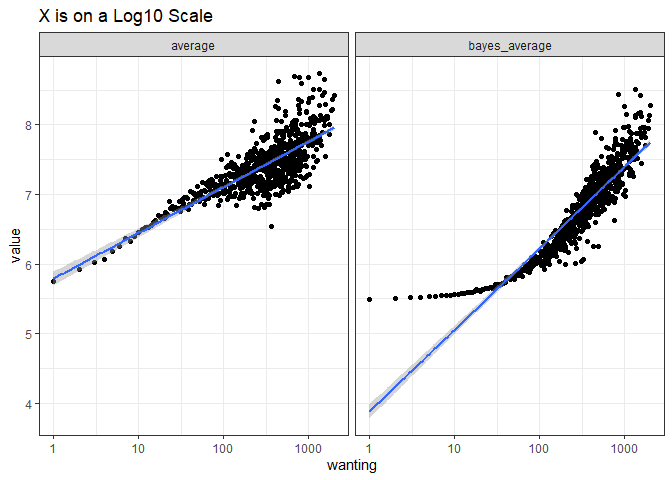
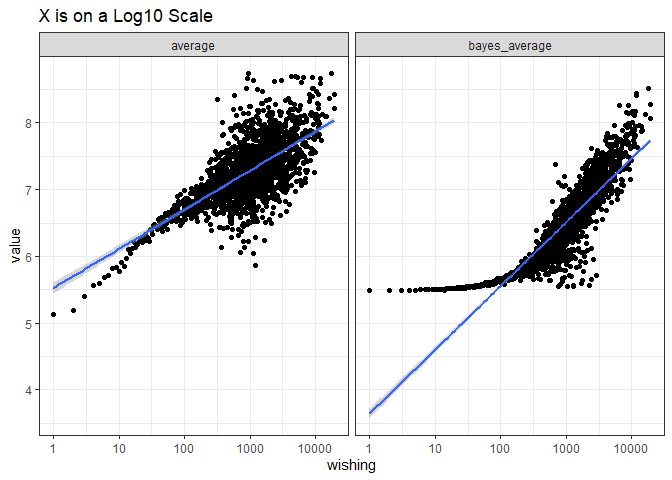
Quick update

diff --git a/BoardGames.md b/BoardGames.md
@@ -277,20 +277,20 @@ gplot2 <- function(x) {
     ggplot(aes({{x}}, value)) + geom_point() + facet_wrap(~key)
 }
 
-gplot2(wanting) + scale_x_log10() + geom_smooth(method = "lm") + labs(title = "X is on a Log10 Scale")
+gplot2(wishing) + scale_x_log10() + geom_smooth(method = "lm") + labs(title = "X is on a Log10 Scale")
 ```
 
-    ## `summarise()` has grouped output by 'wanting'. You can override using the `.groups` argument.
+    ## `summarise()` has grouped output by 'wishing'. You can override using the `.groups` argument.
 
     ## `geom_smooth()` using formula 'y ~ x'
 
 ![](BoardGames_files/figure-gfm/unnamed-chunk-10-1.png)<!-- -->
 
 ``` r
-gplot2(wanting) + scale_x_sqrt() + geom_smooth(method = "lm") + labs(title = "X is on a Sqrt Scale")
+gplot2(wishing) + scale_x_sqrt() + geom_smooth(method = "lm") + labs(title = "X is on a Sqrt Scale")
 ```
 
-    ## `summarise()` has grouped output by 'wanting'. You can override using the `.groups` argument.
+    ## `summarise()` has grouped output by 'wishing'. You can override using the `.groups` argument.
     ## `geom_smooth()` using formula 'y ~ x'
 
 ![](BoardGames_files/figure-gfm/unnamed-chunk-10-2.png)<!-- -->
@@ -298,28 +298,30 @@ gplot2(wanting) + scale_x_sqrt() + geom_smooth(method = "lm") + labs(title = "X 
 #### Quick lm models
 
 ``` r
-lm(bayes_average ~ sqrt(wanting), games %>% filter(wanting >0)) %>% summary()
+lm(bayes_average ~ sqrt(wishing) * sqrt(wanting), games %>% filter(wishing >0)) %>% summary()
 ```
 
     ## 
     ## Call:
-    ## lm(formula = bayes_average ~ sqrt(wanting), data = games %>% 
-    ##     filter(wanting > 0))
+    ## lm(formula = bayes_average ~ sqrt(wishing) * sqrt(wanting), data = games %>% 
+    ##     filter(wishing > 0))
     ## 
     ## Residuals:
     ##     Min      1Q  Median      3Q     Max 
-    ## -5.4285 -0.0707  0.0039  0.0635  1.3894 
+    ## -5.4732 -0.0582  0.0035  0.0567  1.1578 
     ## 
     ## Coefficients:
-    ##                Estimate Std. Error t value Pr(>|t|)    
-    ## (Intercept)   5.3569883  0.0016381  3270.3   <2e-16 ***
-    ## sqrt(wanting) 0.0715120  0.0002412   296.5   <2e-16 ***
+    ##                               Estimate Std. Error  t value Pr(>|t|)    
+    ## (Intercept)                  5.372e+00  1.772e-03 3031.451   <2e-16 ***
+    ## sqrt(wishing)                2.004e-02  3.673e-04   54.554   <2e-16 ***
+    ## sqrt(wanting)                2.682e-02  7.296e-04   36.768   <2e-16 ***
+    ## sqrt(wishing):sqrt(wanting) -7.493e-05  8.132e-06   -9.214   <2e-16 ***
     ## ---
     ## Signif. codes:  0 '***' 0.001 '**' 0.01 '*' 0.05 '.' 0.1 ' ' 1
     ## 
-    ## Residual standard error: 0.162 on 19711 degrees of freedom
-    ## Multiple R-squared:  0.8168, Adjusted R-squared:  0.8168 
-    ## F-statistic: 8.79e+04 on 1 and 19711 DF,  p-value: < 2.2e-16
+    ## Residual standard error: 0.1477 on 21518 degrees of freedom
+    ## Multiple R-squared:  0.8378, Adjusted R-squared:  0.8377 
+    ## F-statistic: 3.704e+04 on 3 and 21518 DF,  p-value: < 2.2e-16
 
 ``` r
 lm(average ~ log(wishing), games %>% filter(wishing >0)) %>% summary()
